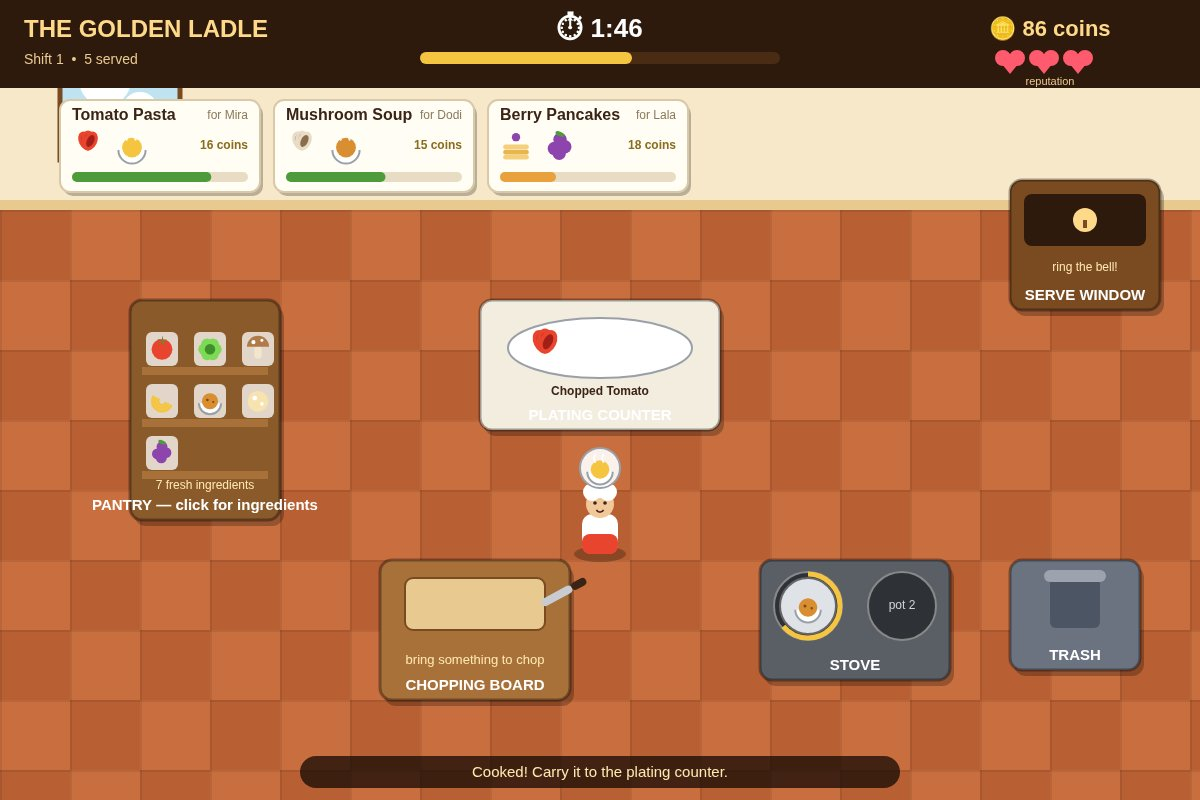
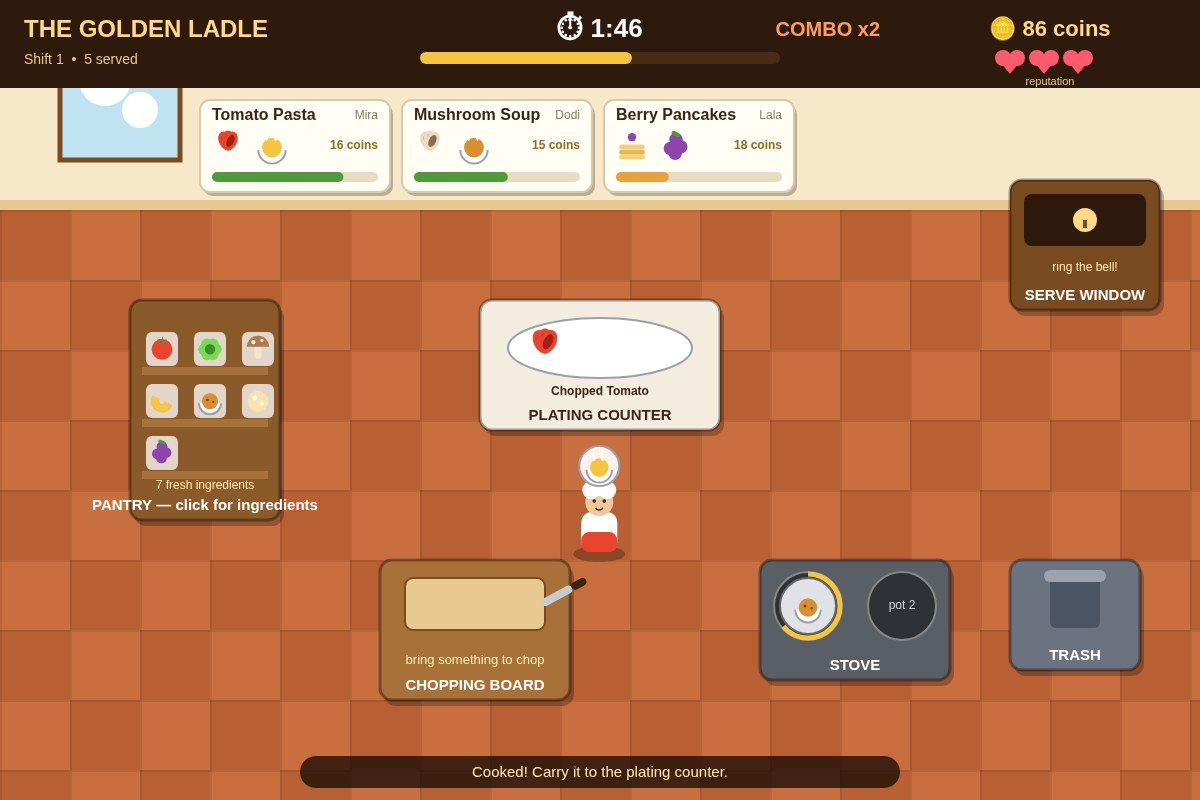
Initial commit

diff --git a/game/src/render.js b/game/src/render.js
@@ -3,7 +3,7 @@
 // All art is original canvas shapes; all food is drawn, never emoji.
 
 import { INGREDIENTS, preparedName } from './recipes.js';
-import { STATIONS, CHOPS_NEEDED, COOK_SECONDS, BURN_SECONDS } from './kitchen.js';
+import { STATIONS, CHOPS_NEEDED, COOK_SECONDS, BURN_SECONDS, burnFrac } from './kitchen.js';
 
 export const W = 1200;
 export const H = 800;
@@ -233,7 +233,7 @@ function drawFloorAndWalls(ctx) {
   ctx.strokeRect(60, 30, 120, 130);
 }
 
-function drawStationBase(ctx, s, fill, label) {
+function drawStationBase(ctx, s, fill, label, labelColor) {
   ctx.fillStyle = 'rgba(0,0,0,0.25)';
   rr(ctx, s.x + 4, s.y + 6, s.w, s.h, 12);
   ctx.fill();
@@ -244,7 +244,9 @@ function drawStationBase(ctx, s, fill, label) {
   ctx.lineWidth = 3;
   rr(ctx, s.x, s.y, s.w, s.h, 12);
   ctx.stroke();
-  text(ctx, label, s.x + s.w / 2, s.y + s.h - 14, 15, '#fff', 'center', true);
+  // Light stations (the plating counter is cream) need a dark label:
+  // white text on cream was unreadable in the screenshots.
+  text(ctx, label, s.x + s.w / 2, s.y + s.h - 14, 15, labelColor || '#fff', 'center', true);
 }
 
 export function drawKitchen(ctx, game) {
@@ -342,6 +344,16 @@ export function drawKitchen(ctx, game) {
         drawFoodIcon(ctx, { id: pot.item.id, prep: pot.item.id === 'batter' ? 'fry' : 'boil' }, cx, cy, 16);
         ctx.fillStyle = '#2e7d32';
         text(ctx, 'READY!', cx, cy - 42, 13, '#2e7d32', 'center', true);
+        // Burn ring: red, shrinking as the pot nears burning, so a
+        // forgotten pot screams before it is lost.
+        const bf = burnFrac(pot);
+        if (bf > 0) {
+          ctx.strokeStyle = bf > 0.6 ? '#ff5a3c' : '#e8a13c';
+          ctx.lineWidth = 5;
+          ctx.beginPath();
+          ctx.arc(cx, cy, 32, -Math.PI / 2, -Math.PI / 2 + (1 - bf) * Math.PI * 2);
+          ctx.stroke();
+        }
       } else {
         text(ctx, 'BURNT!', cx, cy - 42, 13, '#ff5a3c', 'center', true);
         text(ctx, 'click to clear', cx, cy + 44, 11, '#fff', 'center');
@@ -353,7 +365,7 @@ export function drawKitchen(ctx, game) {
 
   // Plating counter: the white plate, showing each prepared item on it.
   const pl = STATIONS.plate;
-  drawStationBase(ctx, pl, '#f3ede0', 'PLATING COUNTER');
+  drawStationBase(ctx, pl, '#f3ede0', 'PLATING COUNTER', PAL.ink);
   ctx.fillStyle = '#fff';
   ctx.beginPath();
   ctx.ellipse(pl.x + pl.w / 2, pl.y + 48, 92, 30, 0, 0, Math.PI * 2);
@@ -482,11 +494,13 @@ export function drawKitchen(ctx, game) {
 
 // --- Order board, HUD, screens. ------------------------------------------
 export function drawOrders(ctx, game) {
-  // Tickets hang in a row under the HUD: the order board.
+  // Tickets hang in a row under the HUD: the order board. They start at
+  // x=200 so the first ticket never sits on top of the wall window (the
+  // old x=60 left the window frame crossing the first ticket).
   const y = 100;
-  const w = 200;
-  const gap = 14;
-  const x0 = 60;
+  const w = 190;
+  const gap = 12;
+  const x0 = 200;
   game.orders.forEach((order, i) => {
     const x = x0 + i * (w + gap);
     const frac = Math.max(0, order.patience / order.patienceMax);
@@ -501,9 +515,10 @@ export function drawOrders(ctx, game) {
     ctx.lineWidth = urgent ? 3 : 2;
     rr(ctx, x, y, w, 92, 10);
     ctx.stroke();
-    // Ticket header: dish + customer.
+    // Ticket header: dish + customer. The name alone (no "for") keeps
+    // long dish names from colliding with the customer at this width.
     text(ctx, order.dish.name, x + 12, y + 16, 16, PAL.ink, 'left', true);
-    text(ctx, 'for ' + order.customer, x + w - 12, y + 16, 12, '#8a7a5a', 'right');
+    text(ctx, order.customer, x + w - 12, y + 16, 12, '#8a7a5a', 'right');
     // Component icons: what the dish needs.
     order.dish.needs.forEach((need, j) => {
       drawFoodIcon(ctx, need, x + 28 + j * 44, y + 46, 16);
@@ -548,6 +563,10 @@ export function drawHud(ctx, game) {
   }
   // Coins and reputation hearts, right side.
   text(ctx, '🪙 ' + game.coins + ' coins', 1050, 30, 22, '#ffd98a', 'center', true);
+  // Combo: consecutive serves multiply coins, so show the streak live.
+  if (game.combo >= 2) {
+    text(ctx, 'COMBO x' + game.combo, 880, 30, 20, '#ff9d5c', 'right', true);
+  }
   let hx = 1010;
   for (let i = 0; i < 3; i++) {
     ctx.fillStyle = i < game.hearts ? '#ff5a6e' : 'rgba(255,255,255,0.25)';

diff --git a/game/src/main.js b/game/src/main.js
@@ -45,6 +45,7 @@ function newGame() {
     combo: 0,
     bestCombo: 0,
     shift: 1,
+    rushAnnounced: false, // the dinner-rush callout fires once, at 2:00 left
     nextOrderIn: 2,
     rng: mulberry32(seed),
     pendingAction: null, // { station } executed when the chef arrives
@@ -364,15 +365,25 @@ function frame(now) {
         }
       }
     }
-    // Stove pots cook and burn.
-    tickPots(k, dt,
-      () => playSfx('cook-done'),
-      () => {
-        setToast(k, 'Something burned on the stove!', '#ff8a70');
-        playSfx('burnt');
-      });
-    // Shift timer ends the day.
-    if (game.elapsed >= game.shiftLength) endShift();
+    // Stove pots cook and burn — only while the shift is still running,
+    // so no burnt toast or sound fires after the day already ended.
+    if (game.state === 'playing') {
+      tickPots(k, dt,
+        () => playSfx('cook-done'),
+        () => {
+          setToast(k, 'Something burned on the stove!', '#ff8a70');
+          playSfx('burnt');
+        });
+    }
+    // Dinner rush: one callout when the last minute begins, so the
+    // pressure ramp reads instead of creeping in unnoticed.
+    if (game.state === 'playing' && !game.rushAnnounced && game.elapsed >= 120) {
+      game.rushAnnounced = true;
+      setToast(k, 'DINNER RUSH! Orders are coming faster!', '#ff9d5c');
+      playSfx('new-order');
+    }
+    // Shift timer ends the day (once — never re-fire after it ended).
+    if (game.state === 'playing' && game.elapsed >= game.shiftLength) endShift();
   }
 
   // The chef walks; on arrival the queued station action fires.

diff --git a/game/src/kitchen.js b/game/src/kitchen.js
@@ -72,21 +72,31 @@ export function sendChefTo(k, x, y) {
   k.chef.moving = true;
 }
 
-// Tick the stove pots. A pot finishes cooking, then burns if ignored.
+// Tick the stove pots. A pot finishes cooking, then burns if ignored:
+// the clock keeps running while it sits 'done', so a forgotten pot is
+// lost 4 seconds after it is ready (before this fix a done pot was
+// skipped here and could never burn, so the stove had no pressure).
 export function tickPots(k, dt, onDone, onBurnt) {
   for (let i = 0; i < k.pots.length; i++) {
     const pot = k.pots[i];
-    if (!pot || pot.state !== 'cooking') continue;
+    if (!pot || pot.state === 'burnt') continue;
     pot.t += dt;
-    if (pot.t >= COOK_SECONDS && pot.state === 'cooking') {
+    if (pot.state === 'cooking' && pot.t >= COOK_SECONDS) {
       pot.state = 'done';
       if (onDone) onDone(i);
-    } else if (pot.t >= COOK_SECONDS + BURN_SECONDS) {
+    } else if (pot.state === 'done' && pot.t >= COOK_SECONDS + BURN_SECONDS) {
       pot.state = 'burnt';
       if (onBurnt) onBurnt(i);
     }
   }
   if (k.toastT > 0) k.toastT -= dt;
+}
+
+// How close a finished pot is to burning, 0 to 1: the renderer draws it
+// as a shrinking red ring, so a pot about to burn reads at a glance.
+export function burnFrac(pot) {
+  if (!pot || pot.state !== 'done') return 0;
+  return Math.min(1, (pot.t - COOK_SECONDS) / BURN_SECONDS);
 }
 
 // --- Interactions: each returns a short event string for sound + toast. ---

diff --git a/README.md b/README.md
@@ -26,14 +26,15 @@ The loop, one click at a time:
 
 1. **Pantry** — click it, pick an ingredient. You carry one thing at a time.
 2. **Chopping Board** — click with a choppable ingredient, then click 3 times to chop it.
-3. **Stove** — click with pasta, broth or batter to start a pot. It cooks in 5 seconds — collect it before it burns, 4 seconds later.
+3. **Stove** — click with pasta, broth or batter to start a pot. It cooks in 5 seconds — collect it before it burns, 4 seconds later, or it is lost: a red ring shrinks around a finished pot as the burn closes in.
 4. **Plating Counter** — click with a prepared item to put it on the plate (up to 3 items).
 5. **Serve Window** — click with a finished dish to serve the matching order.
 
 Serving fast pays a tip (up to +50%), and consecutive serves build a combo
-that multiplies your coins. A missed order costs one reputation heart; lose
+that multiplies your coins — the live streak shows in the top bar. A missed order costs one reputation heart; lose
 all three hearts, or let the 3-minute shift run out, and the day is over.
-Your rating is 1–3 ladles by coins earned.
+Your rating is 1–3 ladles by coins earned. In the last minute the dinner
+rush hits and orders arrive faster.
 
 ## Controls
 
@@ -52,7 +53,7 @@ all sound and music is synthesised with WebAudio — there are no asset files.
 - `game/index.html` — the page, loads the modules.
 - `game/src/main.js` — the game loop, state machine, input, and scoring.
 - `game/src/recipes.js` — the menu: ingredients, dishes, orders, tips.
-- `game/src/kitchen.js` — stations, the chef's walk, every interaction.
+- `game/src/kitchen.js` — stations, the chef's walk, every interaction, plus the stove's burn clock (`burnFrac`).
 - `game/src/render.js` — the kitchen, the food, the chef, the order board.
 - `game/src/audio.js` — synthesised WebAudio sounds and the music loop.
 - `game/src/shots.js` — the staged states behind the screenshots.
